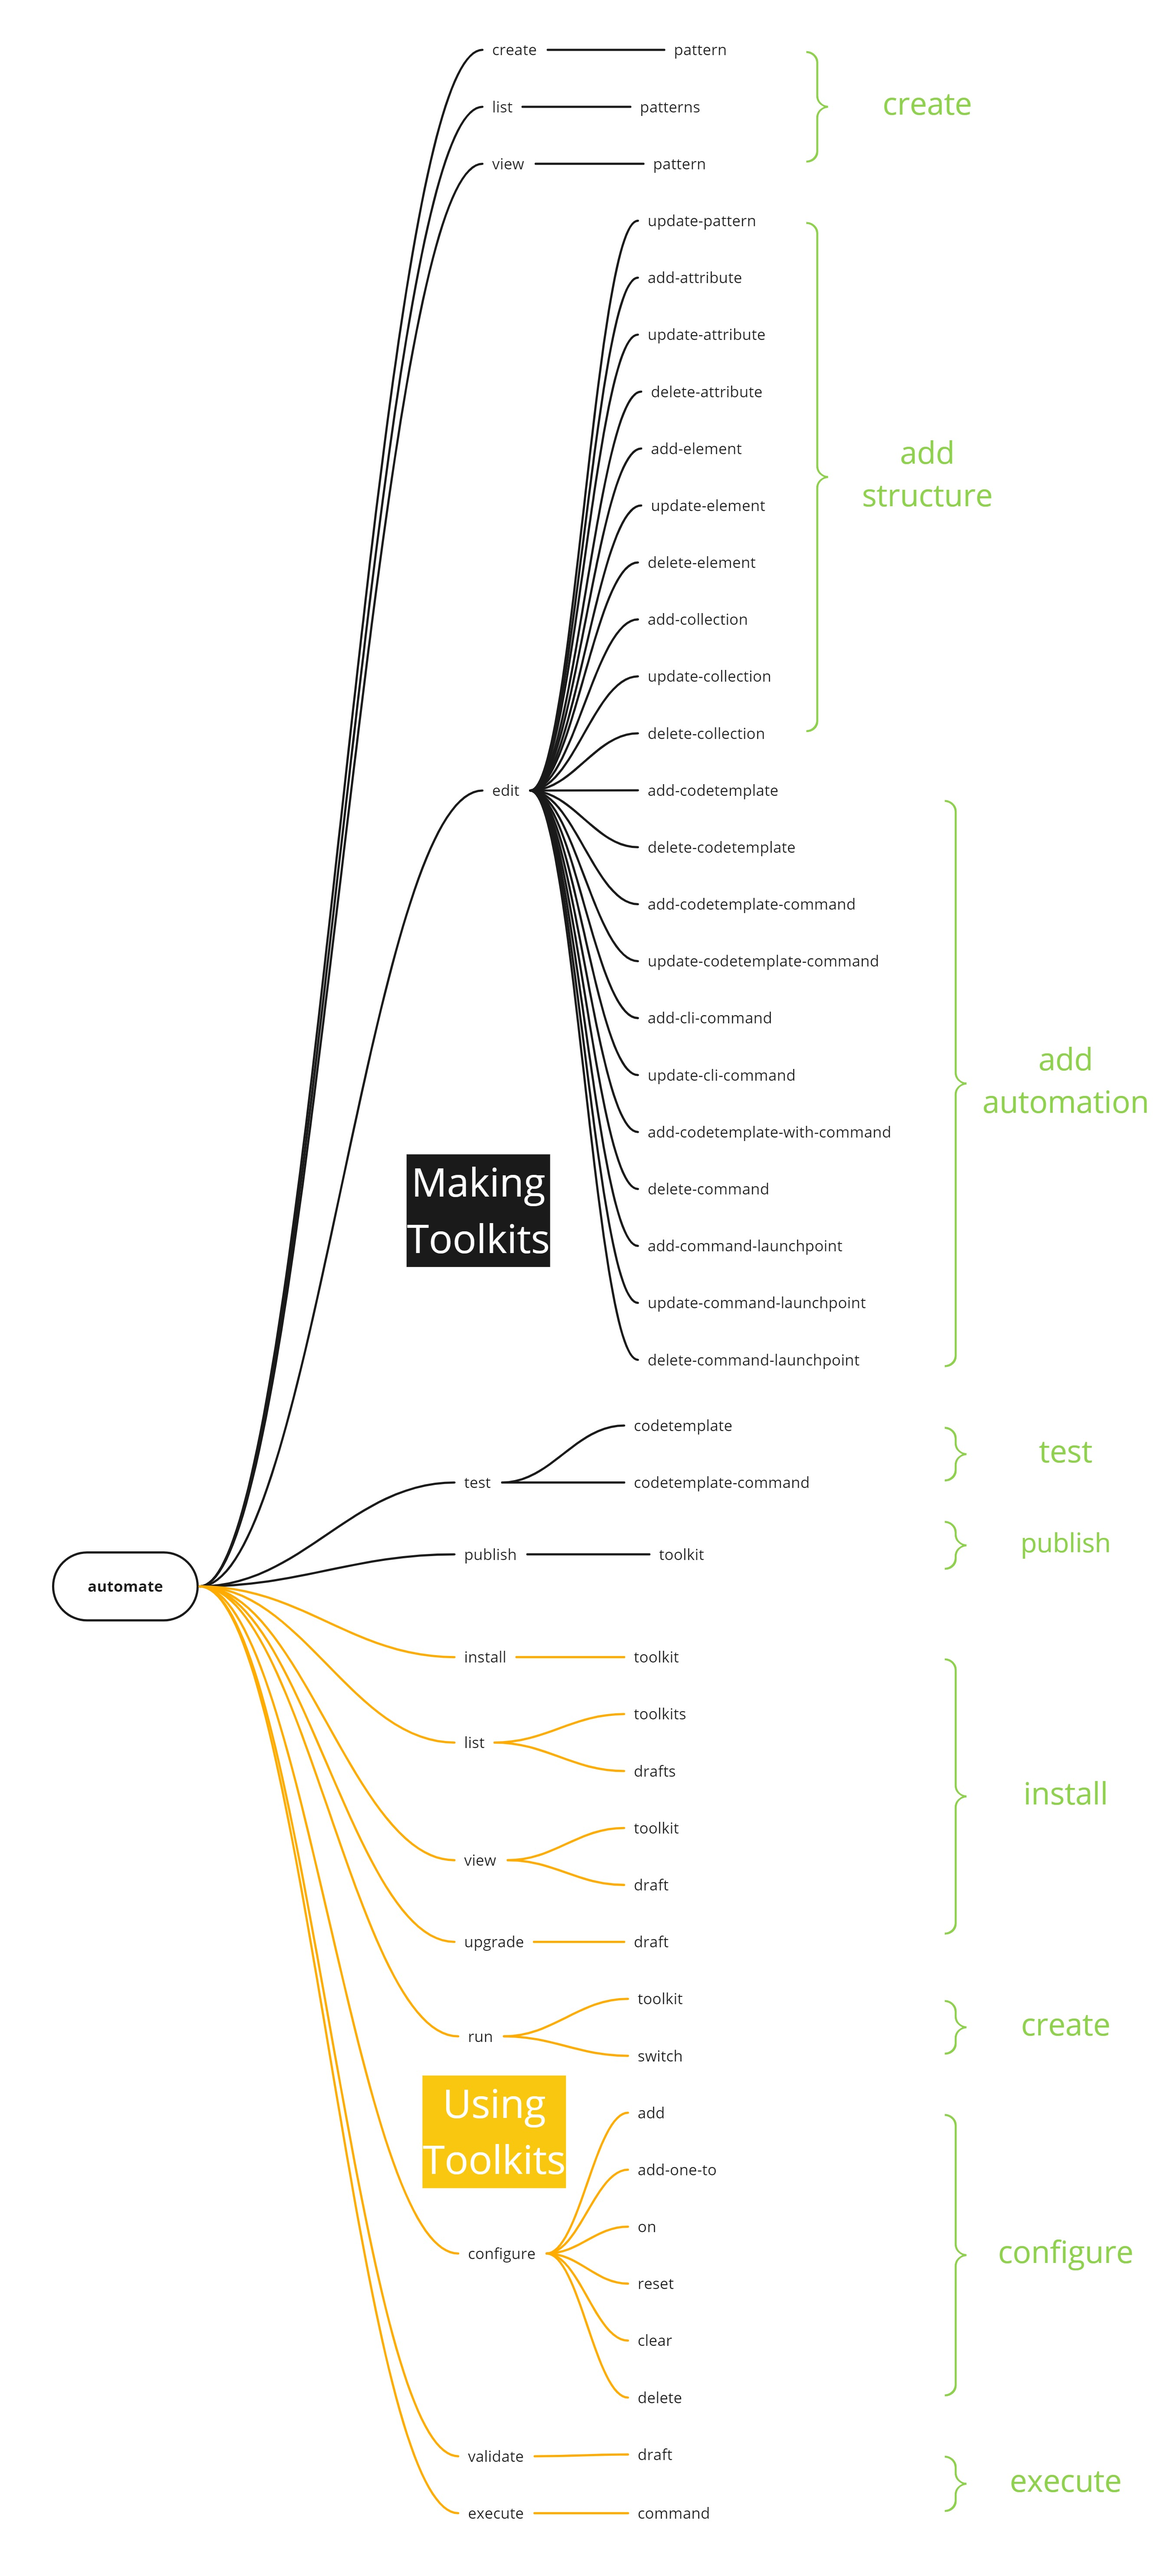
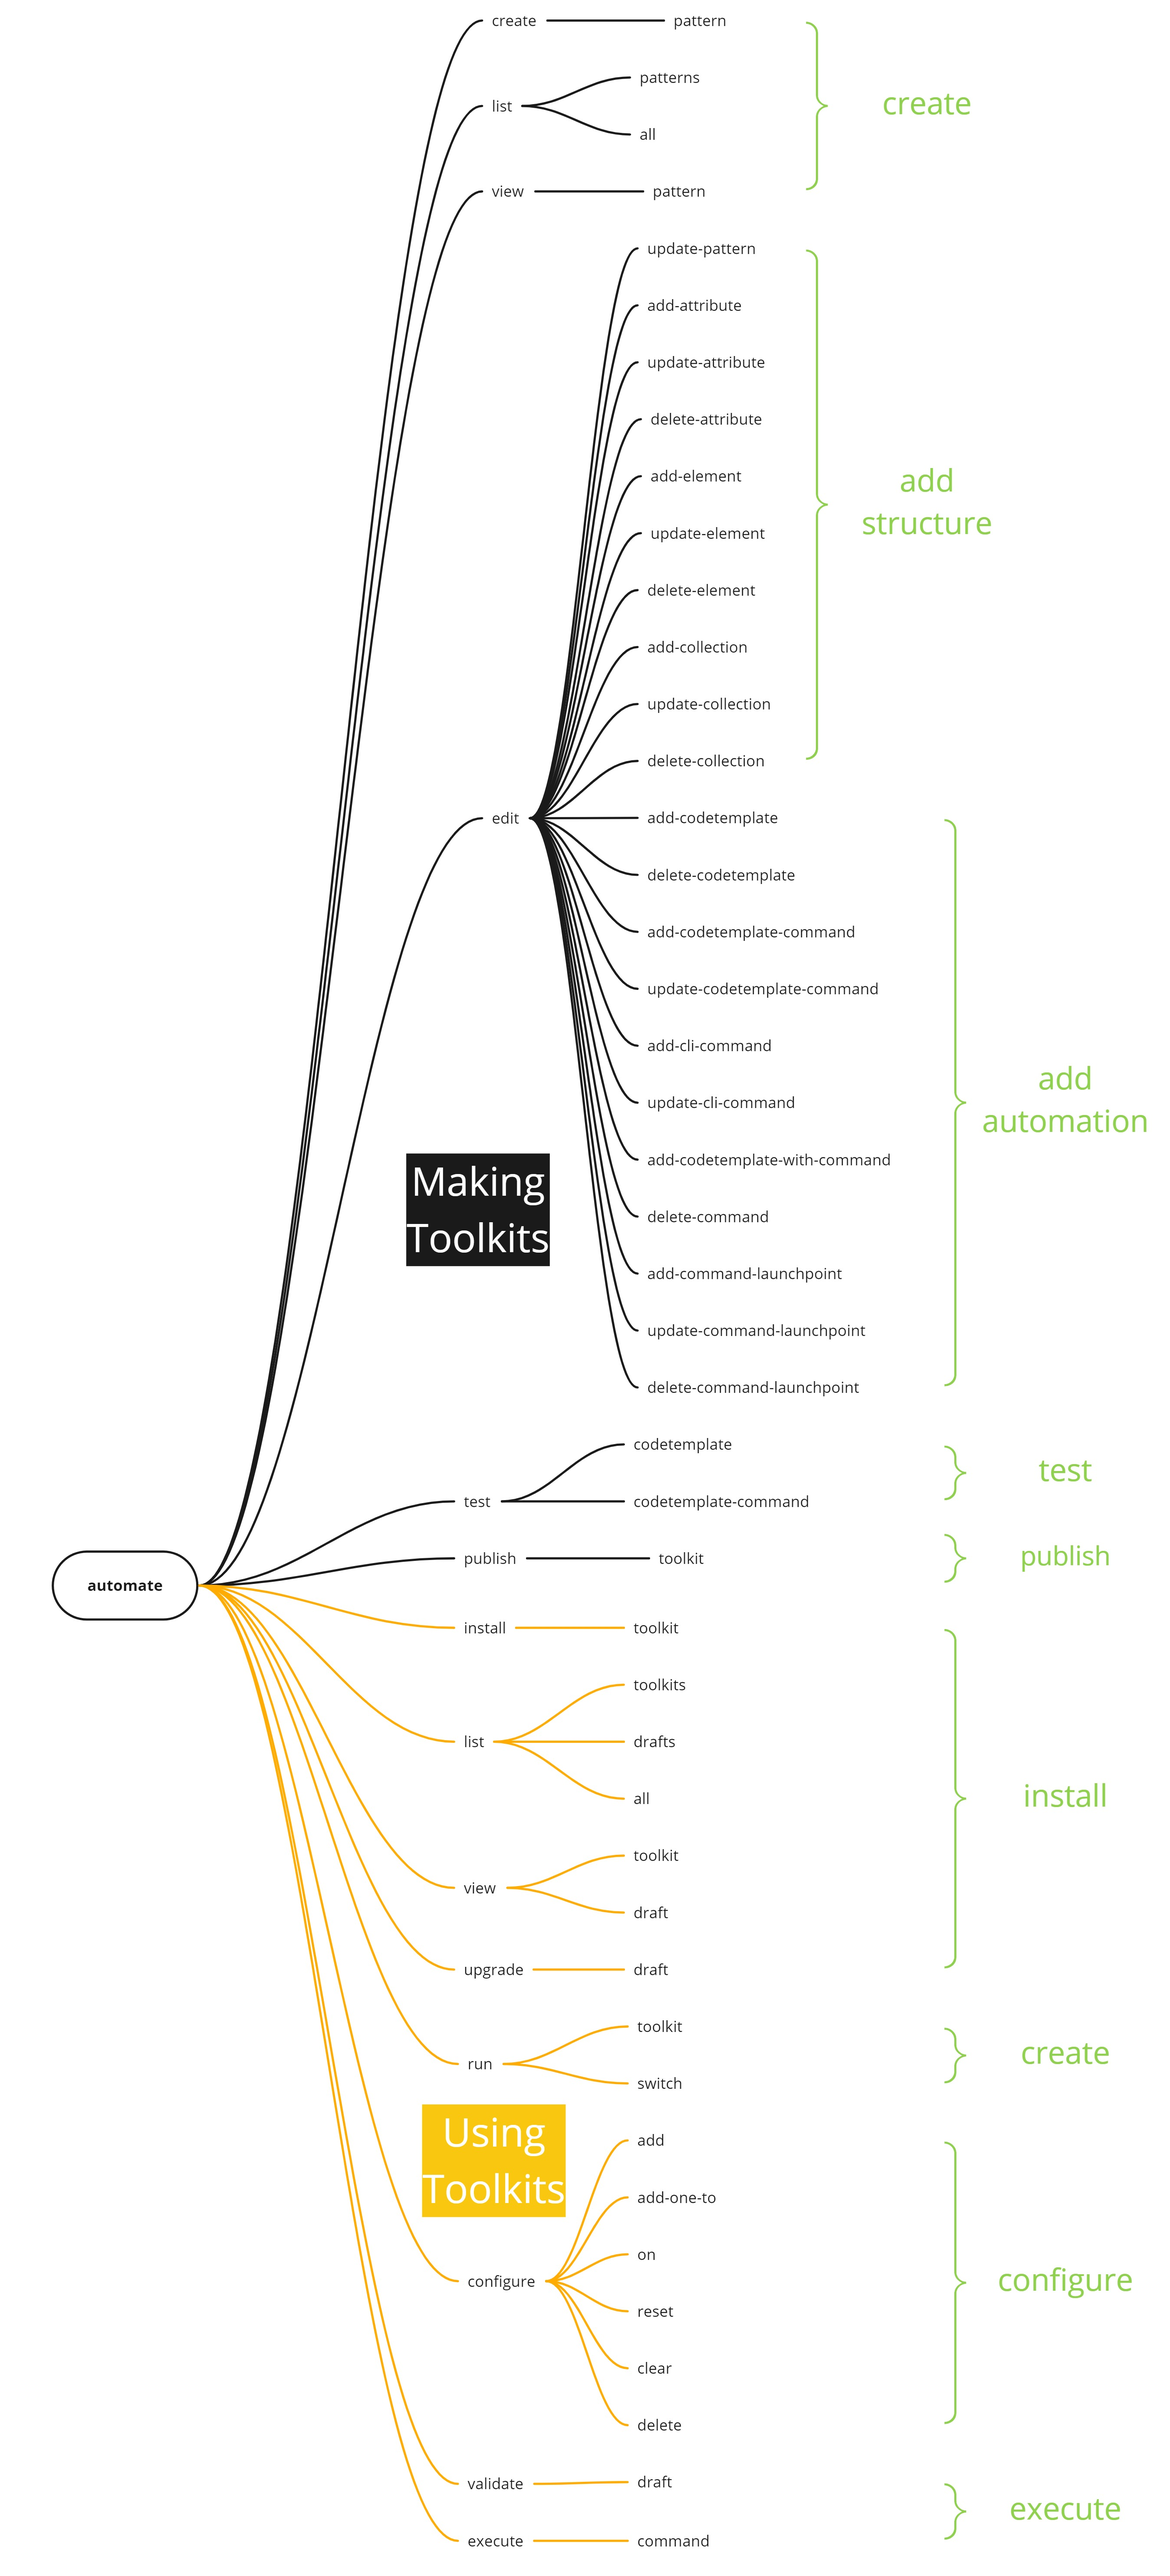
Added list all/everything command. Closes #74

diff --git a/src/CLI/Infrastructure/OutputMessages.Designer.cs b/src/CLI/Infrastructure/OutputMessages.Designer.cs
@@ -281,6 +281,16 @@ namespace Automate.CLI.Infrastructure {
         }
         
         /// <summary>
+        ///   Looks up a localized string similar to Drafts:
+        ///{Drafts}.
+        /// </summary>
+        internal static string CommandLine_Output_ConfiguredDraftsListed {
+            get {
+                return ResourceManager.GetString("CommandLine_Output_ConfiguredDraftsListed", resourceCulture);
+            }
+        }
+        
+        /// <summary>
         ///   Looks up a localized string similar to Created a new Draft &apos;{Name}&apos; (ID: &apos;{DraftId}&apos;) from toolkit: &apos;{PatternName}&apos; (v.{Version}).
         /// </summary>
         internal static string CommandLine_Output_CreateDraftFromToolkit {
@@ -430,16 +440,6 @@ namespace Automate.CLI.Infrastructure {
         }
         
         /// <summary>
-        ///   Looks up a localized string similar to Drafts:
-        ///{Drafts}.
-        /// </summary>
-        internal static string CommandLine_Output_InstalledDraftsListed {
-            get {
-                return ResourceManager.GetString("CommandLine_Output_InstalledDraftsListed", resourceCulture);
-            }
-        }
-        
-        /// <summary>
         ///   Looks up a localized string similar to Toolkit for pattern: &apos;{Name}&apos; (v.{Version}) has been installed and is ready to use with command:
         ///`automate run toolkit &lt;PatternName&gt; --name &quot;DraftName&quot;`.
         /// </summary>
@@ -487,22 +487,22 @@ namespace Automate.CLI.Infrastructure {
         }
         
         /// <summary>
+        ///   Looks up a localized string similar to There are no configured Drafts yet. Use this command to create one:
+        ///`automate run toolkit &lt;PatternName&gt; --name &lt;DraftName&gt;`.
+        /// </summary>
+        internal static string CommandLine_Output_NoConfiguredDrafts {
+            get {
+                return ResourceManager.GetString("CommandLine_Output_NoConfiguredDrafts", resourceCulture);
+            }
+        }
+        
+        /// <summary>
         ///   Looks up a localized string similar to There are no editable Patterns yet. Use this command to create one:
         ///`automate create pattern &lt;PatternName&gt;`.
         /// </summary>
         internal static string CommandLine_Output_NoEditablePatterns {
             get {
                 return ResourceManager.GetString("CommandLine_Output_NoEditablePatterns", resourceCulture);
-            }
-        }
-        
-        /// <summary>
-        ///   Looks up a localized string similar to There are no Drafts yet. Use this command to create one:
-        ///`automate run toolkit &lt;PatternName&gt; --name &lt;DraftName&gt;`.
-        /// </summary>
-        internal static string CommandLine_Output_NoInstalledDrafts {
-            get {
-                return ResourceManager.GetString("CommandLine_Output_NoInstalledDrafts", resourceCulture);
             }
         }
         

diff --git a/src/CLI.IntegrationTests/AuthoringSpec.cs b/src/CLI.IntegrationTests/AuthoringSpec.cs
@@ -23,6 +23,50 @@ namespace CLI.IntegrationTests
         }
 
         [Fact]
+        public void WhenListAllAndNone_ThenDisplaysNone()
+        {
+            this.setup.RunCommand($"{CommandLineApi.ListCommandName} all");
+
+            this.setup.Should()
+                .DisplayOutput(
+                    OutputMessages.CommandLine_Output_NoEditablePatterns);
+            this.setup.Should()
+                .DisplayOutput(
+                    OutputMessages.CommandLine_Output_NoInstalledToolkits);
+            this.setup.Should()
+                .DisplayOutput(
+                    OutputMessages.CommandLine_Output_NoConfiguredDrafts);
+        }
+
+        [Fact]
+        public void WhenListAllAndSome_ThenDisplaysLists()
+        {
+            this.setup.RunCommand($"{CommandLineApi.CreateCommandName} pattern APattern1");
+            this.setup.RunCommand($"{CommandLineApi.BuildCommandName} pattern --install");
+            this.setup.RunCommand($"{CommandLineApi.RunCommandName} toolkit APattern1");
+
+            this.setup.RunCommand($"{CommandLineApi.ListCommandName} all");
+
+            var pattern = this.setup.Pattern;
+            var toolkit = this.setup.Toolkit;
+            var draft = this.setup.Draft;
+
+            this.setup.Should().DisplayNoError();
+            this.setup.Should()
+                .DisplayOutput(
+                    OutputMessages.CommandLine_Output_EditablePatternsListed.SubstituteTemplate(
+                        $"\"Name\": \"{pattern.Name}\", \"Version\": \"{pattern.ToolkitVersion.Current}\", \"ID\": \"{pattern.Id}\", \"IsCurrent\": \"true\""));
+            this.setup.Should()
+                .DisplayOutput(
+                    OutputMessages.CommandLine_Output_InstalledToolkitsListed.SubstituteTemplate(
+                        $"\"Name\": \"{toolkit.PatternName}\", \"Version\": \"{toolkit.Version}\", \"ID\": \"{toolkit.Id}\""));
+            this.setup.Should()
+                .DisplayOutput(
+                    OutputMessages.CommandLine_Output_ConfiguredDraftsListed.SubstituteTemplate(
+                        $"\"Name\": \"{draft.Name}\", \"Version\": \"{draft.Toolkit.Version}\", \"ID\": \"{draft.Id}\", \"IsCurrent\": \"true\""));
+        }
+        
+        [Fact]
         public void WhenCreateAndNoCommands_ThenDisplaysError()
         {
             this.setup.RunCommand($"{CommandLineApi.CreateCommandName}");

diff --git a/src/CLI/Infrastructure/CommandLineApiHandlers.cs b/src/CLI/Infrastructure/CommandLineApiHandlers.cs
@@ -80,6 +80,13 @@ namespace Automate.CLI.Infrastructure
         [UsedImplicitly]
         private class AuthoringHandlers : HandlerBase
         {
+            internal static void ListEverything(bool outputStructured)
+            {
+                ListPatterns(outputStructured);
+                RuntimeHandlers.ListToolkits(outputStructured);
+                RuntimeHandlers.ListDrafts(outputStructured);
+            }
+
             internal static void CreatePattern(string name, string displayedAs,
                 string describedAs)
             {
@@ -522,7 +529,7 @@ namespace Automate.CLI.Infrastructure
                 {
                     if (outputStructured)
                     {
-                        Output(OutputMessages.CommandLine_Output_InstalledDraftsListed,
+                        Output(OutputMessages.CommandLine_Output_ConfiguredDraftsListed,
                             JsonNode.Parse(drafts.Select(draft => new
                             {
                                 draft.Name,
@@ -533,14 +540,14 @@ namespace Automate.CLI.Infrastructure
                     }
                     else
                     {
-                        Output(OutputMessages.CommandLine_Output_InstalledDraftsListed,
+                        Output(OutputMessages.CommandLine_Output_ConfiguredDraftsListed,
                             drafts.ToMultiLineText(draft =>
                                 $"\"Name\": \"{draft.Name}\", \"Version\": \"{draft.Toolkit.Version}\", \"ID\": \"{draft.Id}\", \"IsCurrent\": \"{(draft.Id == currentDraft).ToString().ToLowerInvariant()}\""));
                     }
                 }
                 else
                 {
-                    Output(OutputMessages.CommandLine_Output_NoInstalledDrafts);
+                    Output(OutputMessages.CommandLine_Output_NoConfiguredDrafts);
                 }
             }
 

diff --git a/src/CLI.IntegrationTests/RuntimeSpec.cs b/src/CLI.IntegrationTests/RuntimeSpec.cs
@@ -188,7 +188,7 @@ namespace CLI.IntegrationTests
             this.setup.Should().DisplayNoError();
             this.setup.Should()
                 .DisplayOutput(
-                    OutputMessages.CommandLine_Output_NoInstalledDrafts);
+                    OutputMessages.CommandLine_Output_NoConfiguredDrafts);
         }
 
         [Fact]
@@ -204,7 +204,7 @@ namespace CLI.IntegrationTests
             this.setup.Should().DisplayNoError();
             this.setup.Should()
                 .DisplayOutput(
-                    OutputMessages.CommandLine_Output_InstalledDraftsListed.SubstituteTemplate(
+                    OutputMessages.CommandLine_Output_ConfiguredDraftsListed.SubstituteTemplate(
                         $"\"Name\": \"{draft.Name}\", \"Version\": \"{draft.Toolkit.Version}\", \"ID\": \"{draft.Id}\", \"IsCurrent\": \"true\""));
         }
 

diff --git a/src/CLI/Infrastructure/CommandLineApi.cs b/src/CLI/Infrastructure/CommandLineApi.cs
@@ -456,6 +456,9 @@ namespace Automate.CLI.Infrastructure
             };
             var listCommands = new Command(ListCommandName, "Listing patterns, toolkits and drafts")
             {
+                new Command("all", "Lists all patterns, toolkits and drafts")
+                    .WithAlias("everything")
+                    .WithHandler<AuthoringHandlers>(nameof(AuthoringHandlers.ListEverything)),
                 new Command(PatternsSubCommandName, "Lists all patterns being edited")
                     .WithHandler<AuthoringHandlers>(nameof(AuthoringHandlers.ListPatterns)),
                 new Command(ToolkitsSubCommandName, "Lists all installed toolkits")

diff --git a/docs/runtime.md b/docs/runtime.md
@@ -27,7 +27,7 @@ The toolkit will be installed, and it will become the 'active' toolkit in use.
 
 ### Listing installed toolkits
 
-You can view all the installed toolkits in your codebase: `automate list toolkits`
+You can view all the installed toolkits in your codebase: `automate list toolkits` (or `automate list all`)
 
 > This command will list all the installed toolkits and their respective names and versions.
 
@@ -88,7 +88,7 @@ To create a draft from an installed toolkit: `automate run toolkit "<TOOLKITNAME
 
 Since you can have multiple drafts on the go at the same time (even from different toolkits) you will need a way to track them and which one is in use right now.
 
-To list all the drafts you have right now: `automate list drafts`
+To list all the drafts you have right now: `automate list drafts` (or `automate list all`)
 
 > This command will produce a list of drafts, and their names and IDs.
 

diff --git a/docs/authoring.md b/docs/authoring.md
@@ -22,7 +22,7 @@ If you have multiple patterns going, you can switch between them using their ID:
 
 `automate edit switch "<PATTERNID>"`
 
-You can view all the patterns in your codebase: `automate list patterns`
+You can view all the patterns in your codebase: `automate list patterns` (or `automate list all`)
 
 > Which will list all the patterns and their respective names and versions.
 
